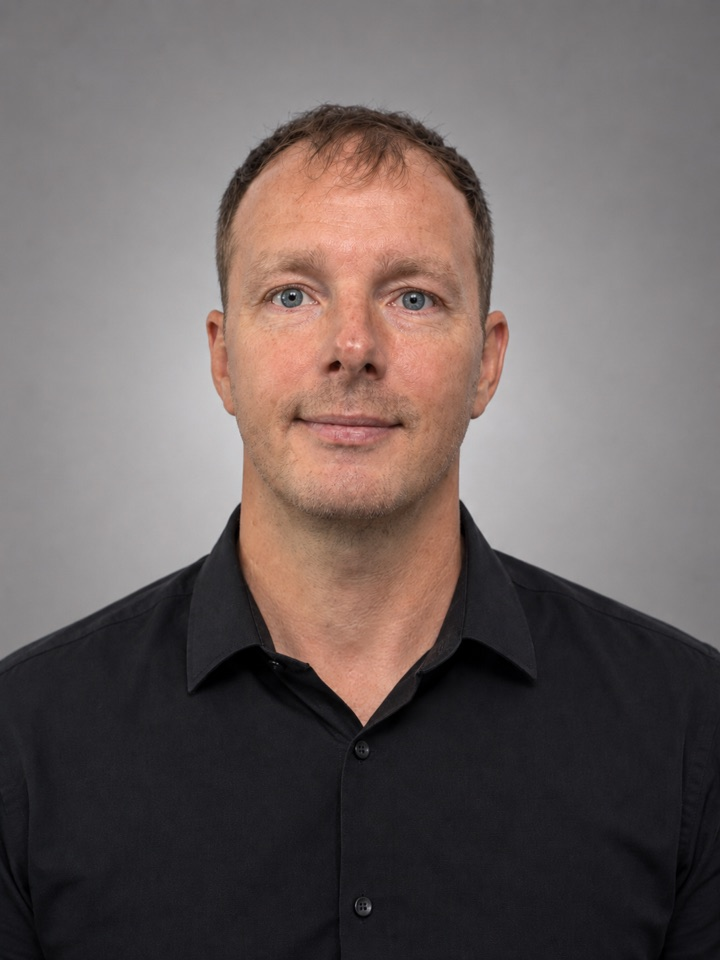
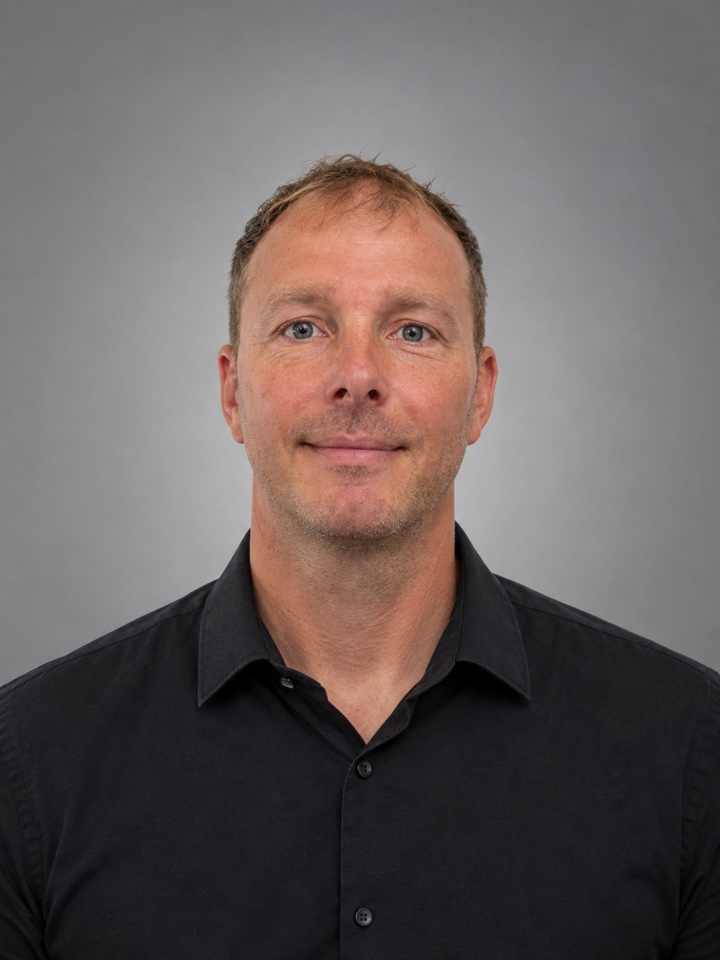
Prighter aus Footern und Impressum entfernt, /vvl auf Demo und Mail umgestellt, neues Portraet

Changed region(s): [[0.0, 0.0938, 1.0, 0.8125], [0.4889, 0.9375, 0.5194, 0.9688]]

diff --git a/vvl.html b/vvl.html
@@ -122,7 +122,7 @@
     <div class="container-wide site-header__inner">
       <a href="/" class="site-header__logo">petsch<span class="wordmark-dot">.</span>digital</a>
       <nav class="site-nav" aria-label="Hauptnavigation">
-        <a href="#kontakt">Gespräch</a>
+        <a href="#kontakt">Kontakt</a>
       </nav>
     </div>
   </header>
@@ -136,7 +136,7 @@
           <h1>Keine Vertragsverlängerung deiner Mobilfunkkunden mehr verpassen</h1>
           <p class="lead">Das System erkennt automatisch, bei welchem Kunden die Vertragsverlängerung (VVL) ansteht, und erinnert dich rechtzeitig. Für jeden fälligen Kunden bekommst du eine fertige Erinnerungs-SMS vorgeschlagen, die du nur noch freigibst. Kein neues Kassensystem, keine Kundenliste, die du pflegen musst. Läuft im Echtbetrieb bei zwei Vodafone-Fachhändlern.</p>
           <div class="cta-row">
-            <a class="btn" href="https://calendly.com/steffenpetsch/20min" target="_blank" rel="noopener">20-Minuten-Gespräch &rarr;</a>
+            <a class="btn" href="https://demo.petsch-digital.com/login" target="_blank" rel="noopener">Demo ansehen &rarr;</a>
             <a class="btn btn--secondary" href="#ablauf">Wie es funktioniert</a>
           </div>
         </div>
@@ -312,11 +312,12 @@
     <section class="section" id="kontakt">
       <div class="container-wide">
         <div class="cta-block">
-          <span class="eyebrow">Gespräch</span>
+          <span class="eyebrow">Ausprobieren</span>
           <h2>Schau es dir an</h2>
-          <p>20 Minuten per Telefon oder Google Meet. Ich zeige dir, wie das System bei einem Fachhändler läuft, und wir klären, ob es zu deinem Shop passt. Kein Verkaufsdruck.</p>
+          <p>Die Demo läuft mit Beispieldaten, es wird keine SMS verschickt. Zugang: demo2026. Wenn du danach Fragen hast oder wissen willst, ob es zu deinem Shop passt, schreib mir.</p>
           <div class="cta-row" style="justify-content: center;">
-            <a class="btn" href="https://calendly.com/steffenpetsch/20min" target="_blank" rel="noopener">20-Minuten-Gespräch vereinbaren &rarr;</a>
+            <a class="btn" href="https://demo.petsch-digital.com/login" target="_blank" rel="noopener">Demo öffnen &rarr;</a>
+            <a class="btn btn--secondary" href="mailto:steffen@petsch-digital.com">E-Mail schreiben</a>
           </div>
         </div>
       </div>
@@ -334,28 +335,6 @@
             Ste 225C, Oakland Park<br>
             FL 33311, USA
           </p>
-        </div>
-        <div>
-          <h4>EU-Vertreter</h4>
-          <p>
-            Prighter EU Rep GmbH<br>
-            Schellinggasse 3/10<br>
-            1010 Wien<br>
-            Österreich
-          </p>
-        </div>
-        <div>
-          <h4>Compliance</h4>
-          <div class="site-footer__badge">
-            <a href="https://app.prighter.com/portal/15539856848" target="_blank" rel="noopener">
-              <img class="compliance-badge" src="https://app.prighter.com/v1/business/certificate-of-representation?business_id=15539856848&certificate_product=ART27" alt="GDPR Certification: Art 27 representation by Prighter"/>
-            </a>
-            <br>
-            <span class="compliance-badge-caption">
-              powered by
-              <a href="https://prighter.com" target="_blank" rel="noopener" title="Prighter - GDPR Compliance / Privacy Representation for EU, Switzerland, UK and Turkey">Prighter</a>
-            </span>
-          </div>
         </div>
         <div>
           <h4>Rechtliches</h4>

diff --git a/impressum.html b/impressum.html
@@ -12,11 +12,11 @@
   <meta name="theme-color" content="#0A0A0B">
 
   <title>Impressum — Petsch Digital</title>
-  <meta name="description" content="Impressum der Petsch Digital LLC mit EU-Vertretung über Prighter EU Rep GmbH.">
+  <meta name="description" content="Impressum der Petsch Digital LLC.">
   <meta name="robots" content="noindex,follow">
 
   <meta property="og:title" content="Impressum — Petsch Digital">
-  <meta property="og:description" content="Impressum der Petsch Digital LLC mit EU-Vertretung über Prighter EU Rep GmbH.">
+  <meta property="og:description" content="Impressum der Petsch Digital LLC.">
   <meta property="og:type" content="website">
  <link rel="canonical" href="https://petsch-digital.com/impressum">
   <meta property="og:url" content="https://petsch-digital.com/impressum">
@@ -54,9 +54,6 @@
           <h2>Vertretungsberechtigte Person</h2>
           <p>Steffen Petschaelis</p>
 
-          <h2>EU-Vertreter nach Art. 27 DSGVO</h2>
-          <p>Prighter EU Rep GmbH<br>Schellinggasse 3/10<br>1010 Wien<br>Österreich</p>
-
           <h2>Kontakt</h2>
           <p>E-Mail: <a href="mailto:kontakt@petsch-digital.com">kontakt@petsch-digital.com</a></p>
 
@@ -90,28 +87,6 @@
             Ste 225C, Oakland Park<br>
             FL 33311, USA
           </p>
-        </div>
-        <div>
-          <h4>EU-Vertreter</h4>
-          <p>
-            Prighter EU Rep GmbH<br>
-            Schellinggasse 3/10<br>
-            1010 Wien<br>
-            Österreich
-          </p>
-        </div>
-        <div>
-          <h4>Compliance</h4>
-          <div class="site-footer__badge">
-            <a href="https://app.prighter.com/portal/15539856848" target="_blank" rel="noopener">
-              <img class="compliance-badge" src="https://app.prighter.com/v1/business/certificate-of-representation?business_id=15539856848&certificate_product=ART27" alt="GDPR Certification: Art 27 representation by Prighter"/>
-            </a>
-            <br>
-            <span class="compliance-badge-caption">
-              powered by
-              <a href="https://prighter.com" target="_blank" rel="noopener" title="Prighter - GDPR Compliance / Privacy Representation for EU, Switzerland, UK and Turkey">Prighter</a>
-            </span>
-          </div>
         </div>
         <div>
           <h4>Rechtliches</h4>

diff --git a/datenschutz.html b/datenschutz.html
@@ -12,11 +12,11 @@
   <meta name="theme-color" content="#0A0A0B">
 
   <title>Datenschutzerklärung — Petsch Digital</title>
-  <meta name="description" content="Datenschutzerklärung der Petsch Digital LLC nach DSGVO. EU-Vertretung über Prighter EU Rep GmbH in Wien.">
+  <meta name="description" content="Datenschutzerklärung der Petsch Digital LLC nach DSGVO.">
   <meta name="robots" content="noindex,follow">
 
   <meta property="og:title" content="Datenschutzerklärung — Petsch Digital">
-  <meta property="og:description" content="Datenschutzerklärung der Petsch Digital LLC nach DSGVO. EU-Vertretung über Prighter EU Rep GmbH in Wien.">
+  <meta property="og:description" content="Datenschutzerklärung der Petsch Digital LLC nach DSGVO.">
   <meta property="og:type" content="website">
   <link rel="canonical" href="https://petsch-digital.com/datenschutz">
   <meta property="og:url" content="https://petsch-digital.com/datenschutz">
@@ -340,28 +340,6 @@
             Ste 225C, Oakland Park<br>
             FL 33311, USA
           </p>
-        </div>
-        <div>
-          <h4>EU-Vertreter</h4>
-          <p>
-            Prighter EU Rep GmbH<br>
-            Schellinggasse 3/10<br>
-            1010 Wien<br>
-            Österreich
-          </p>
-        </div>
-        <div>
-          <h4>Compliance</h4>
-          <div class="site-footer__badge">
-            <a href="https://app.prighter.com/portal/15539856848" target="_blank" rel="noopener">
-              <img class="compliance-badge" src="https://app.prighter.com/v1/business/certificate-of-representation?business_id=15539856848&certificate_product=ART27" alt="GDPR Certification: Art 27 representation by Prighter"/>
-            </a>
-            <br>
-            <span class="compliance-badge-caption">
-              powered by
-              <a href="https://prighter.com" target="_blank" rel="noopener" title="Prighter - GDPR Compliance / Privacy Representation for EU, Switzerland, UK and Turkey">Prighter</a>
-            </span>
-          </div>
         </div>
         <div>
           <h4>Rechtliches</h4>

diff --git a/index.html b/index.html
@@ -312,28 +312,6 @@
           </p>
         </div>
         <div>
-          <h4>EU-Vertreter</h4>
-          <p>
-            Prighter EU Rep GmbH<br>
-            Schellinggasse 3/10<br>
-            1010 Wien<br>
-            Österreich
-          </p>
-        </div>
-        <div>
-          <h4>Compliance</h4>
-          <div class="site-footer__badge">
-            <a href="https://app.prighter.com/portal/15539856848" target="_blank" rel="noopener">
-              <img class="compliance-badge" src="https://app.prighter.com/v1/business/certificate-of-representation?business_id=15539856848&certificate_product=ART27" alt="GDPR Certification: Art 27 representation by Prighter"/>
-            </a>
-            <br>
-            <span class="compliance-badge-caption">
-              powered by
-              <a href="https://prighter.com" target="_blank" rel="noopener" title="Prighter - GDPR Compliance / Privacy Representation for EU, Switzerland, UK and Turkey">Prighter</a>
-            </span>
-          </div>
-        </div>
-        <div>
           <h4>Rechtliches</h4>
           <ul>
             <li><a href="/datenschutz">Datenschutz</a></li>

diff --git a/assets/css/style.css b/assets/css/style.css
@@ -845,7 +845,7 @@ main {
 
 @media (min-width: 720px) {
   .site-footer__grid {
-    grid-template-columns: repeat(4, 1fr);
+    grid-template-columns: repeat(2, 1fr);
   }
 }
 
@@ -880,10 +880,6 @@ main {
 
 .site-footer a:hover {
   color: var(--text-primary);
-}
-
-.site-footer__badge {
-  display: block;
 }
 
 .site-footer__copyright {
@@ -1249,33 +1245,4 @@ main {
 .ablauf-body {
   color: var(--text-secondary);
   line-height: var(--line-height-body);
-}
-
-/* ---------- Compliance badge (Prighter) ---------- */
-.compliance-badge {
-  max-width: 160px;
-  height: auto;
-  display: block;
-  margin-bottom: 0.5rem;
-  opacity: 0.85;
-  transition: opacity var(--transition);
-}
-
-.compliance-badge:hover {
-  opacity: 1;
-}
-
-.compliance-badge-caption {
-  font-size: 0.6875rem;
-  color: var(--text-muted);
-  line-height: 1.4;
-}
-
-.compliance-badge-caption a {
-  color: var(--text-muted);
-  text-decoration: underline;
-}
-
-.compliance-badge-caption a:hover {
-  color: var(--text-secondary);
 }
